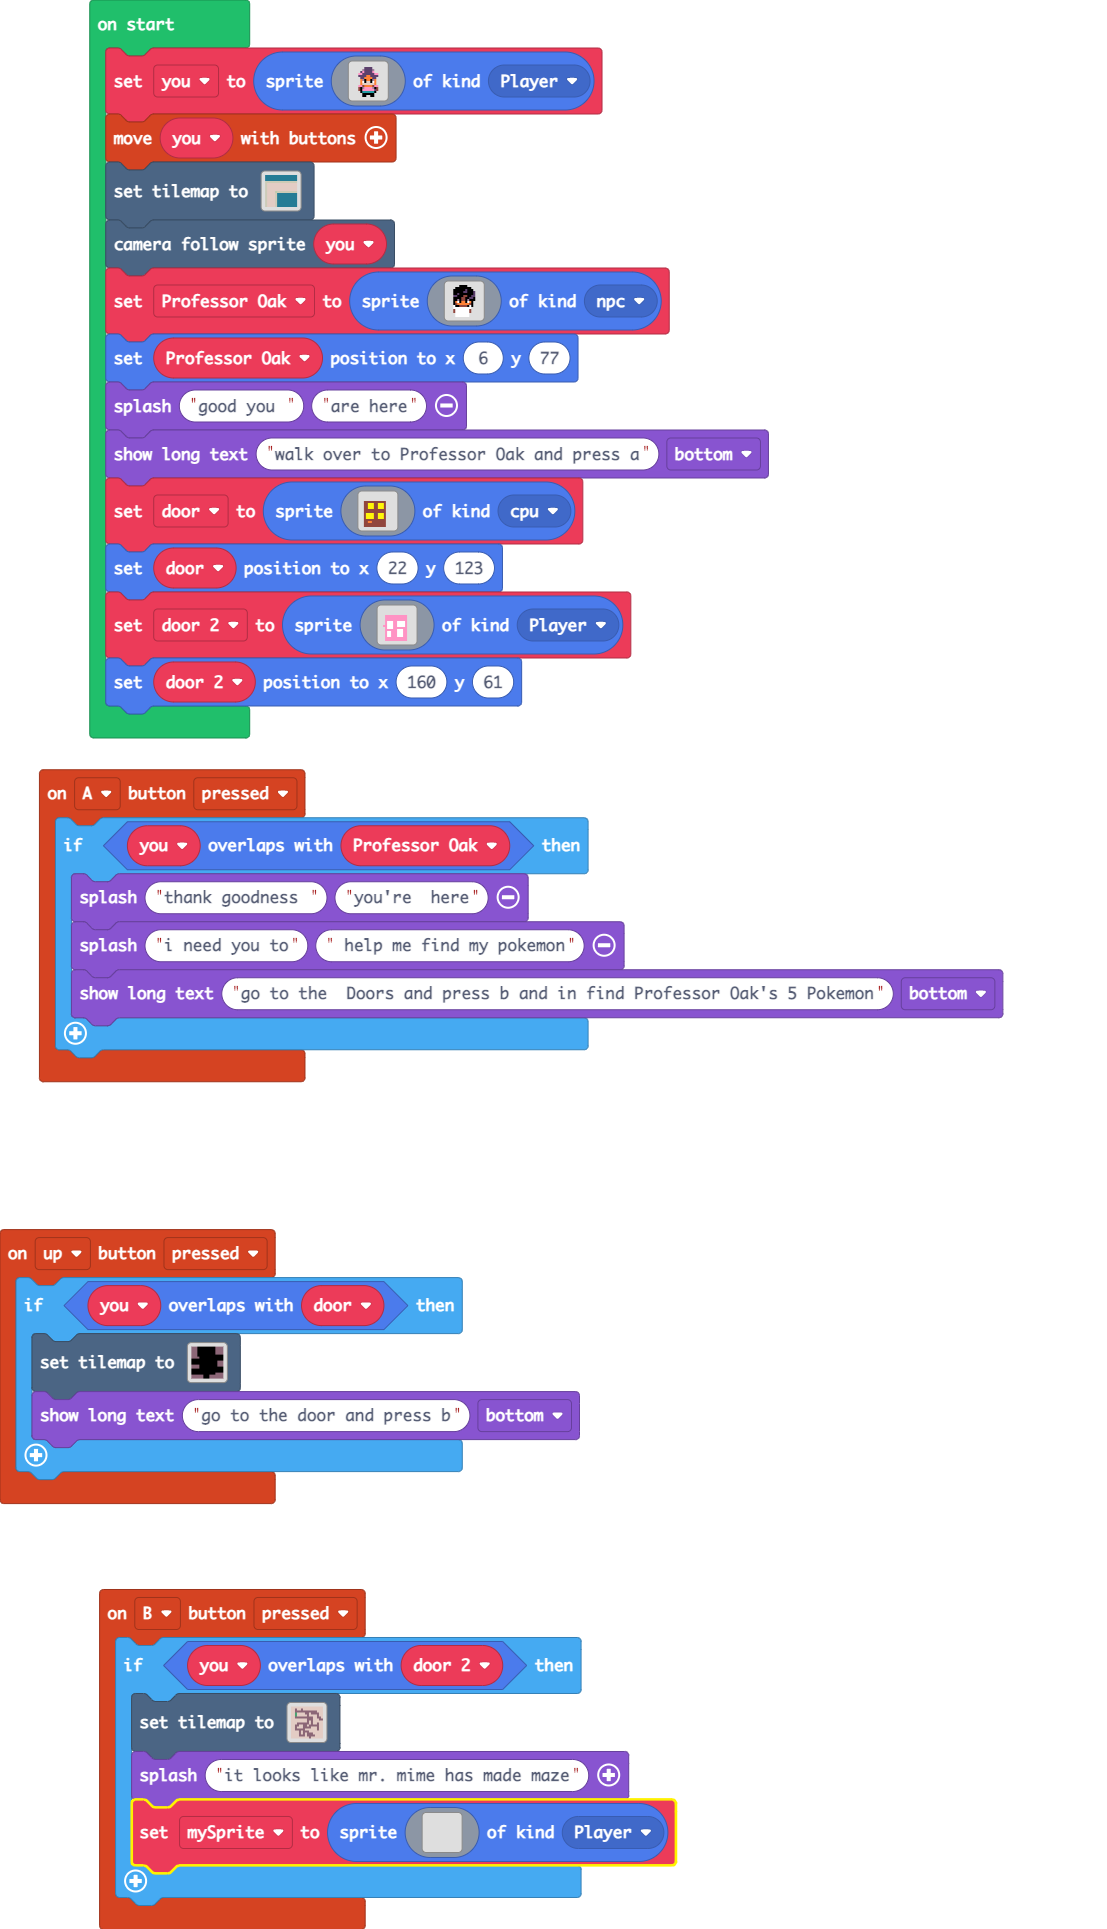
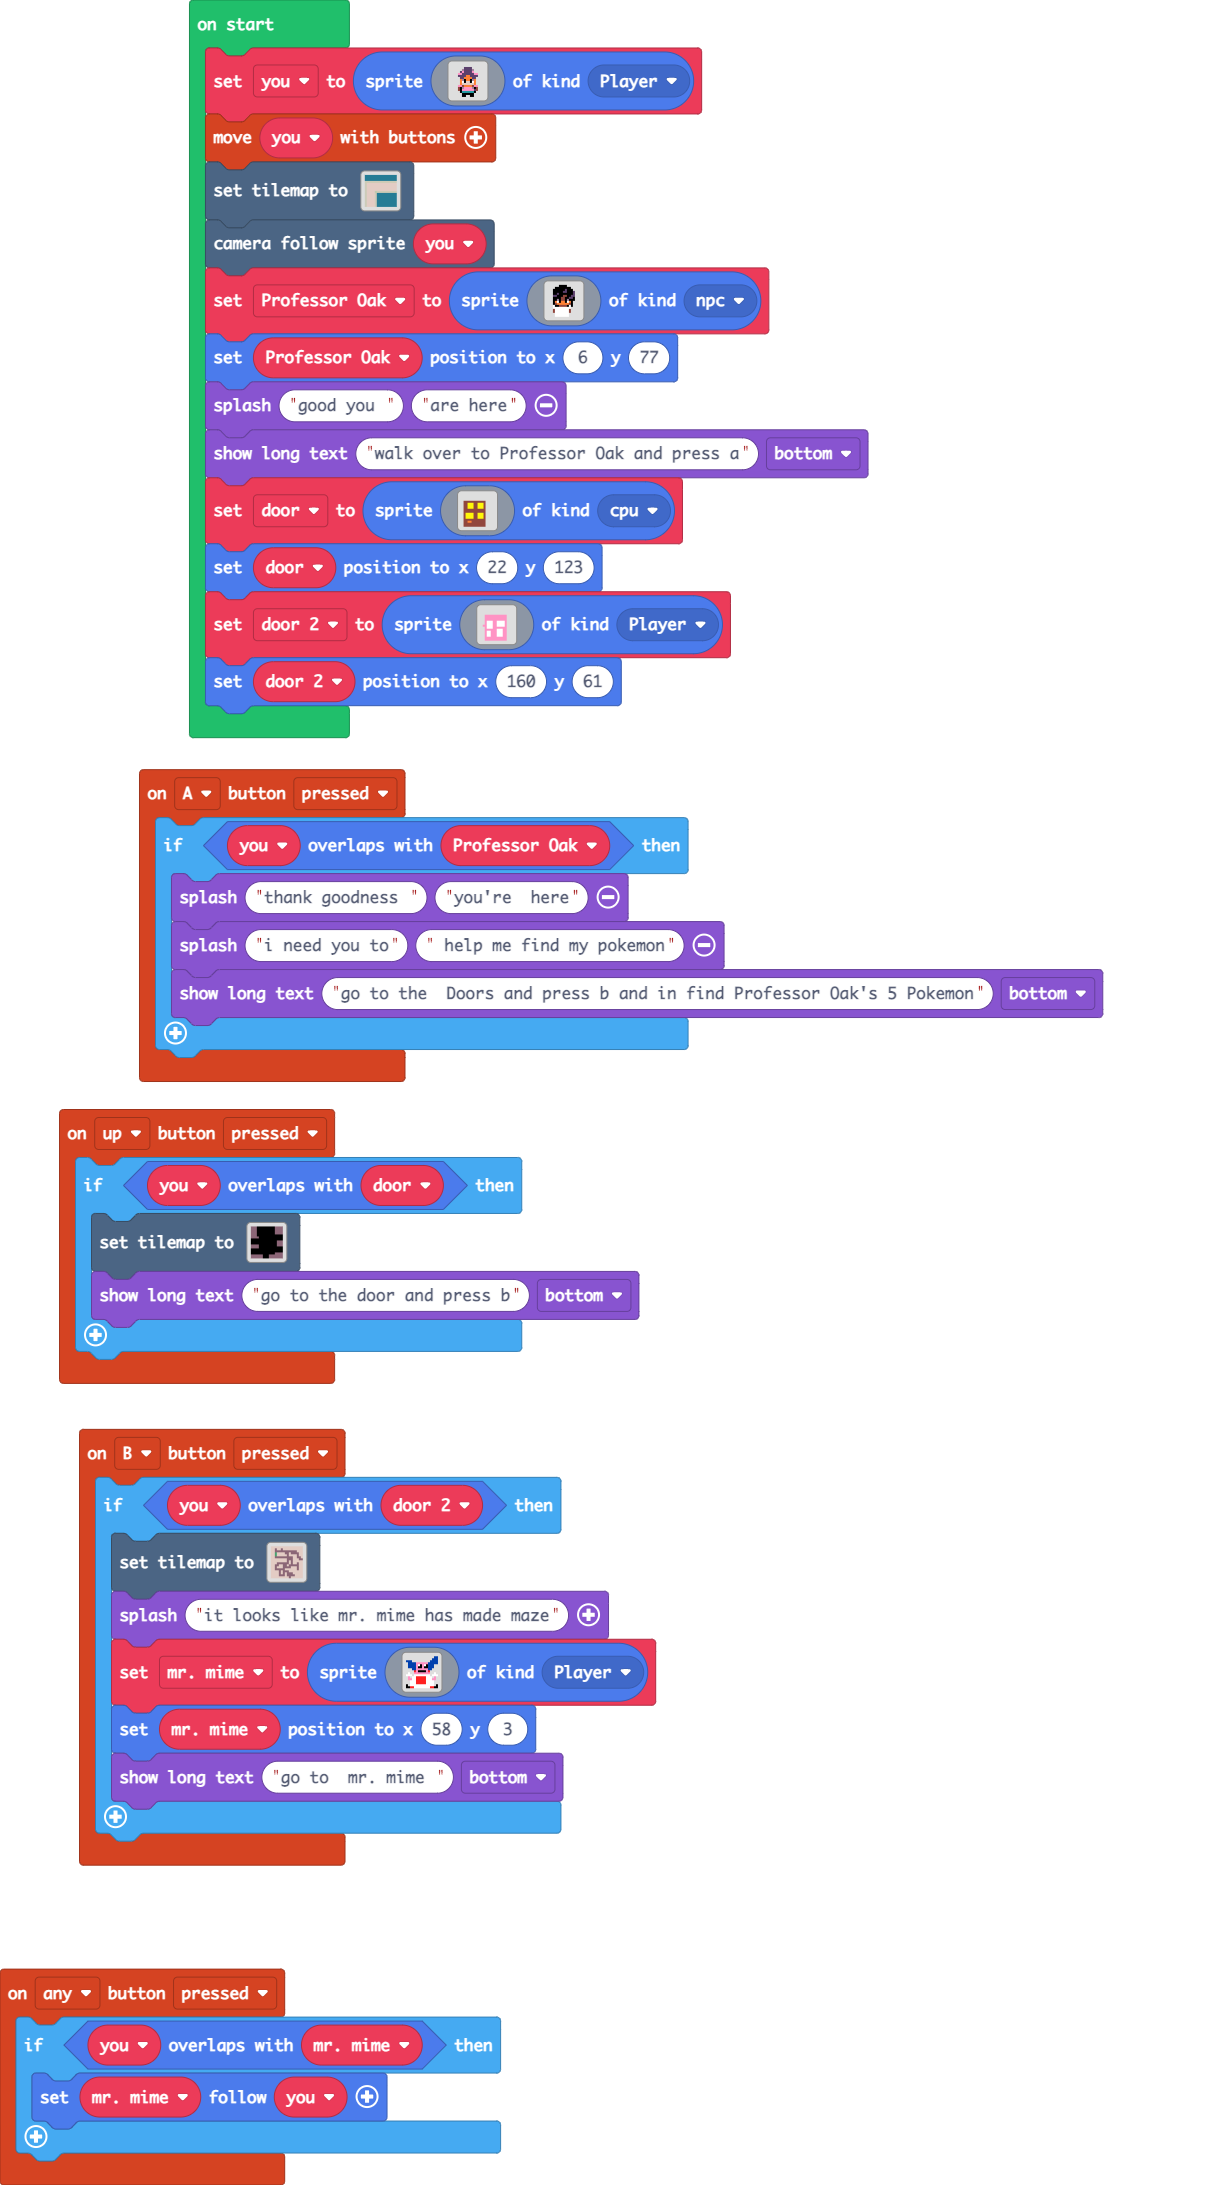
Update pxt.json, main.blocks, main.ts

diff --git a/main.ts b/main.ts
@@ -12,24 +12,31 @@ controller.B.onEvent(ControllerButtonEvent.Pressed, function () {
     if (you.overlapsWith(door_2)) {
         tiles.setTilemap(tilemap`level4`)
         game.splash("it looks like mr. mime has made maze")
-        mySprite = sprites.create(img`
-            . . . . . . . . . . . . . . . . 
-            . . . . . . . . . . . . . . . . 
-            . . . . . . . . . . . . . . . . 
-            . . . . . . . . . . . . . . . . 
-            . . . . . . . . . . . . . . . . 
-            . . . . . . . . . . . . . . . . 
-            . . . . . . . . . . . . . . . . 
-            . . . . . . . . . . . . . . . . 
-            . . . . . . . . . . . . . . . . 
-            . . . . . . . . . . . . . . . . 
-            . . . . . . . . . . . . . . . . 
-            . . . . . . . . . . . . . . . . 
-            . . . . . . . . . . . . . . . . 
-            . . . . . . . . . . . . . . . . 
-            . . . . . . . . . . . . . . . . 
-            . . . . . . . . . . . . . . . . 
+        mr_mime = sprites.create(img`
+            . . . . . . . . . . . . . . 8 8 
+            . . . . . . . . . . . . . 8 8 8 
+            8 8 8 . . . . . . . . . 8 8 8 8 
+            . 8 8 8 8 3 3 3 3 3 3 8 8 8 8 8 
+            . 8 8 8 8 3 1 f 3 1 f 8 8 8 . . 
+            . 8 8 8 8 3 f f 3 f f 8 8 8 . . 
+            . . . 8 8 3 3 3 3 3 3 8 8 . . . 
+            . . . . 2 3 f f f f 3 2 . . . . 
+            . 1 . . 3 3 3 3 3 3 3 3 . . 1 . 
+            1 1 1 . 1 1 1 1 1 1 1 1 . 1 1 1 
+            . 3 . 1 1 2 2 2 2 2 1 1 1 . 3 . 
+            . 3 3 1 1 2 2 2 2 2 1 1 1 3 3 . 
+            . . 1 1 1 2 2 2 2 2 1 1 1 1 . . 
+            . . 1 1 1 2 2 2 2 2 1 1 1 1 . . 
+            f . 1 1 1 1 1 1 1 1 1 1 1 1 . f 
+            f f 2 2 1 1 1 1 1 1 1 1 2 2 f f 
             `, SpriteKind.Player)
+        mr_mime.setPosition(58, 3)
+        game.showLongText("go to  mr. mime ", DialogLayout.Bottom)
+    }
+})
+controller.anyButton.onEvent(ControllerButtonEvent.Pressed, function () {
+    if (you.overlapsWith(mr_mime)) {
+        mr_mime.follow(you)
     }
 })
 controller.A.onEvent(ControllerButtonEvent.Pressed, function () {
@@ -39,7 +46,7 @@ controller.A.onEvent(ControllerButtonEvent.Pressed, function () {
         game.showLongText("go to the  Doors and press b and in find Professor Oak's 5 Pokemon", DialogLayout.Bottom)
     }
 })
-let mySprite: Sprite = null
+let mr_mime: Sprite = null
 let door_2: Sprite = null
 let door: Sprite = null
 let Professor_Oak: Sprite = null
